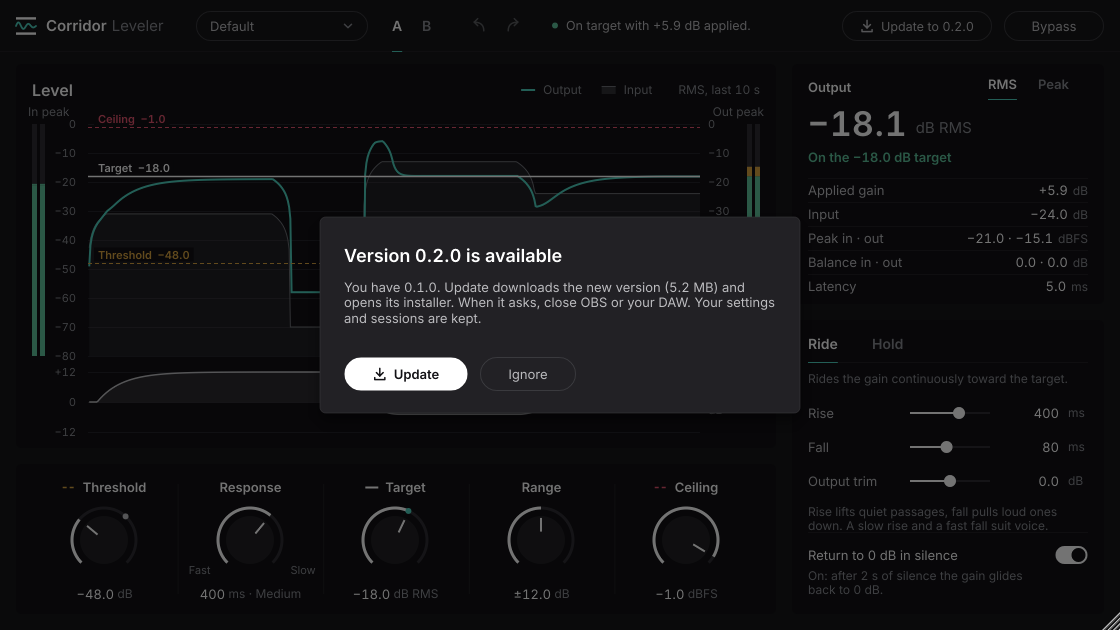
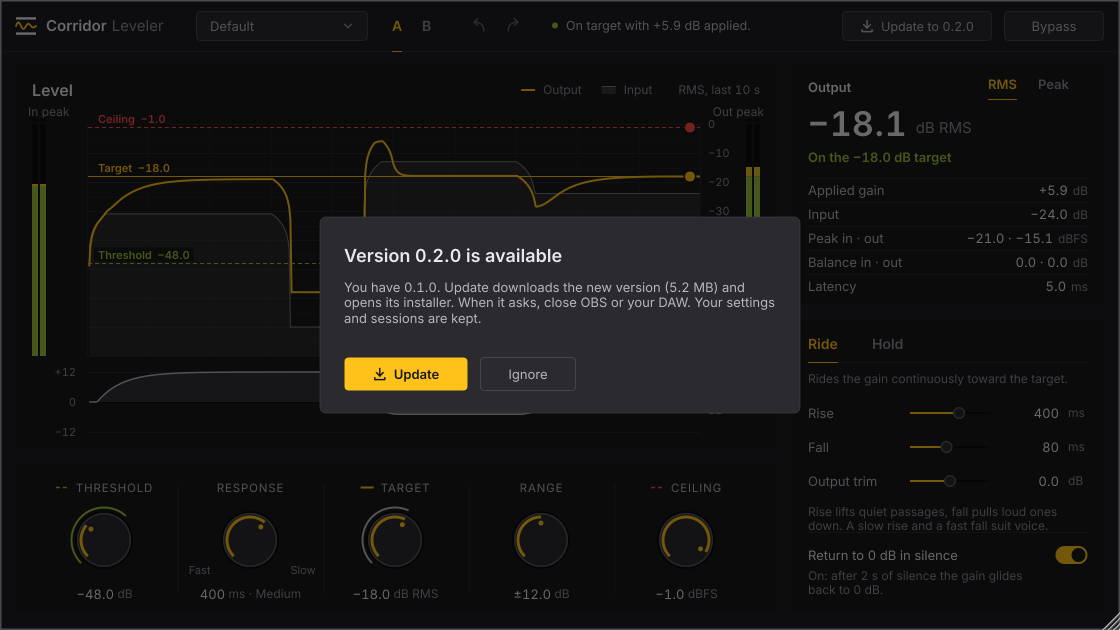
Restyle the window in an analyzer style with a gold accent (#13)
Charcoal ground, grey text, one gold accent; olive threshold, red ceiling; no gradients or shadows. Faint two-way grid, thin lines with round handles, one dB scale. Matte dials with a gold arc inside the rim and a dot pointer, slim meters with a gold peak-hold tick, flat buttons, and a plain window edge.

diff --git a/plugin/src/PluginEditor.cpp b/plugin/src/PluginEditor.cpp
@@ -44,7 +44,7 @@ constexpr float kTopBar = 52.f;
 constexpr float kRailW = 312.f, kDialH = 150.f, kReadH = 240.f;
 constexpr int kFullW = 1000, kFullH = 630;  // the full layout from here up; compact below
 constexpr float kDbRange = 80.f;
-constexpr float kBarW = 5.f, kBarGap = 3.f;
+constexpr float kBarW = 6.f, kBarGap = 2.f;
 struct Geo {
     float w = 1120.f, h = 630.f;
     bool compact = false;
@@ -86,12 +86,15 @@ struct Pal {
     Colour accent, positive, negative, warning;
     Colour inLine, grid, track, shade;
 };
-// dark: cards are darker than the ground; text greys pass 4.5:1 on the cards
+// Analyzer style: a flat charcoal ground, cards a shade darker, grey text and one gold accent (the output,
+// the Target, every value arc and anything switched on). Olive is the threshold and the safe meter zone,
+// yellow the meter's middle zone, red the ceiling and clipping. Text greys pass 4.5:1 on the cards.
 const Pal kDark{true,
-                Colour(0xff171719), Colour(0xff121115), Colour(0xff222125), Colour(0xff2a292e), Colour(0xff222125), Colour(0xff3a3a3e),
-                Colour(0xffffffff), Colour(0xffbdbdc0), Colour(0xff8a8c92),
-                Colour(0xff4fd1bf), Colour(0xff5fc39c), Colour(0xffe5566f), Colour(0xffd9a441),
-                Colour(0xff6e7076), Colour(0xff25242a), Colour(0xff2f2e33), Colour(0x66000000)};
+                Colour(0xff1e1e22), Colour(0xff19191c), Colour(0xff2a2a2f), Colour(0xff34343a), Colour(0xff2c2c31), Colour(0xff45454c),
+                Colour(0xffe8e8ec), Colour(0xffb8b8c0), Colour(0xff8e8e98),
+                Colour(0xffffc21a), Colour(0xff9cc23a), Colour(0xffff4d4d), Colour(0xffe6c229),
+                Colour(0xff7c7c84), Colour(0xff27272c), Colour(0xff0f0f11), Colour(0x00000000)};
+const Colour kKnobRim(0xff5a5a62), kFrame(0xff4a4a52);
 
 // ---------------------------------------------------------------- type: Inter Tabular, Regular and SemiBold
 // Mostly regular weight; SemiBold for names, titles, the chosen option and the answer figure.
@@ -151,10 +154,9 @@ void card(Graphics& g, const Pal& c, Rectangle<float> r) {
     g.setColour(c.surface); g.fillRoundedRectangle(r, 6.f);
     if (!c.dark) { g.setColour(c.rule); g.drawRoundedRectangle(r.reduced(0.5f), 6.f, 1.f); }
 }
-// a floating panel (menu, popover, dialog): the one place a shadow is drawn
+// a floating panel (menu, popover, dialog): flat, with a 1 px edge
 void floating(Graphics& g, const Pal& c, Rectangle<float> r) {
     Path p; p.addRoundedRectangle(r, 6.f);
-    DropShadow(c.shade, 24, {0, 8}).drawForPath(g, p);
     g.setColour(c.dark ? c.raised : c.surface); g.fillPath(p);
     g.setColour(c.dark ? c.control.withAlpha(0.6f) : c.rule); g.strokePath(p, PathStrokeType(1.f));
 }
@@ -271,40 +273,43 @@ public:
     // the colour and the dash of the line a dial moves
     Colour roleColour(const String& role) const {
         const Pal& c = p();
-        return role == "data" ? c.text : role == "thr" ? c.warning : role == "ceil" ? c.negative : c.muted;
+        return role == "data" ? c.accent : role == "thr" ? c.positive : role == "ceil" ? c.negative : c.muted;
     }
 
-    // A flat dial: a thin track, the value arc in ink, a raised disc with a pointer. The live level
-    // (Target: the output, Threshold: the input) is a dot on the track.
+    // A dial in the analyzer style: a dark matte disc edged by a thin light ring and a dark outline. The
+    // value is a gold arc just inside the rim (no track behind it) and a gold dot near the edge is the
+    // pointer. Threshold and Target add a thin outer arc for the live level: olive for the input on
+    // Threshold, grey for the output on Target.
     void drawRotarySlider(Graphics& g, int x, int y, int w, int h, float pos, float a0, float a1, Slider& s) override {
         const Pal& c = p();
         const float cx = float(x) + float(w) * 0.5f, cy = float(y) + float(h) * 0.5f;
-        const float ringR = float(jmin(w, h)) * 0.5f - 4.f, r = ringR - 8.f;
+        const float r = float(jmin(w, h)) * 0.5f - 9.f;  // the disc
         const float ang = a0 + pos * (a1 - a0);
-        const PathStrokeType ring(3.f, PathStrokeType::curved, PathStrokeType::butt);
-        Path track; track.addCentredArc(cx, cy, ringR, ringR, 0.f, a0, a1, true);
-        g.setColour(c.track); g.strokePath(track, ring);
-        if (pos > 0.003f) {
-            Path val; val.addCentredArc(cx, cy, ringR, ringR, 0.f, a0, ang, true);
-            g.setColour(c.text); g.strokePath(val, ring);
-        }
+        const String role = s.getProperties().getWithDefault("role", "");
         const bool hot = s.isMouseOverOrDragging();
-        g.setColour(hot ? c.hover : c.raised);
-        g.fillEllipse(cx - r, cy - r, r * 2.f, r * 2.f);
-        const float p0 = r * 0.35f, p1 = r * 0.92f;
-        g.setColour(c.text);
-        g.drawLine(cx + std::sin(ang) * p0, cy - std::cos(ang) * p0, cx + std::sin(ang) * p1, cy - std::cos(ang) * p1, 2.f);
+        auto arc = [&](float rad, float from, float to, float thick, Colour col) {
+            Path a; a.addCentredArc(cx, cy, rad, rad, 0.f, from, to, true);
+            g.setColour(col); g.strokePath(a, PathStrokeType(thick, PathStrokeType::curved, PathStrokeType::butt));
+        };
         const var live = s.getProperties()["live"];
         if (!live.isVoid()) {
             const double lv = double(live);
-            if (lv >= s.getMinimum() && lv <= s.getMaximum()) {
-                const float la = a0 + float(s.valueToProportionOfLength(lv)) * (a1 - a0);
-                const bool isOut = s.getProperties()["role"].toString() == "data";
-                g.setColour(isOut ? c.accent : c.secondary);
-                g.fillEllipse(cx + ringR * std::sin(la) - 3.f, cy - ringR * std::cos(la) - 3.f, 6.f, 6.f);
+            if (lv > s.getMinimum()) {
+                const float la = a0 + float(s.valueToProportionOfLength(jmin(lv, s.getMaximum()))) * (a1 - a0);
+                arc(r + 5.5f, a0, la, 2.f, role == "thr" ? c.positive : c.secondary);
             }
         }
-        if (s.hasKeyboardFocus(false)) { g.setColour(c.accent); g.drawEllipse(cx - ringR - 5.f, cy - ringR - 5.f, (ringR + 5.f) * 2.f, (ringR + 5.f) * 2.f, 1.5f); }
+        g.setColour(Colours::black.withAlpha(0.45f));
+        g.fillEllipse(cx - r - 2.f, cy - r - 2.f, (r + 2.f) * 2.f, (r + 2.f) * 2.f);
+        g.setColour(hot ? c.hover : c.raised);
+        g.fillEllipse(cx - r, cy - r, r * 2.f, r * 2.f);
+        g.setColour(hot ? c.secondary : kKnobRim);
+        g.drawEllipse(cx - r + 0.75f, cy - r + 0.75f, (r - 0.75f) * 2.f, (r - 0.75f) * 2.f, 1.5f);
+        if (pos > 0.003f) arc(r - 4.f, a0, ang, 3.f, c.accent);
+        const float pr = r - 10.f, d = jmax(5.f, r * 0.15f);
+        g.setColour(c.accent);
+        g.fillEllipse(cx + std::sin(ang) * pr - d * 0.5f, cy - std::cos(ang) * pr - d * 0.5f, d, d);
+        if (s.hasKeyboardFocus(false)) { g.setColour(c.accent); g.drawEllipse(cx - r - 8.f, cy - r - 8.f, (r + 8.f) * 2.f, (r + 8.f) * 2.f, 1.5f); }
     }
 
     // the thin sliders for rise, fall and trim
@@ -313,9 +318,10 @@ public:
         const float cy = std::round(float(y) + float(h) * 0.5f), x0 = float(x) + 6.f, x1 = float(x + w) - 6.f;
         const float px = jlimit(x0, x1, pos);
         g.setColour(c.track); g.fillRect(x0, cy - 1.f, x1 - x0, 2.f);
-        g.setColour(c.text); g.fillRect(x0, cy - 1.f, px - x0, 2.f);
+        g.setColour(c.accent); g.fillRect(x0, cy - 1.f, px - x0, 2.f);
         const float tr = s.isMouseOverOrDragging() ? 7.f : 6.f;
-        g.setColour(c.text); g.fillEllipse(px - tr, cy - tr, tr * 2.f, tr * 2.f);
+        g.setColour(c.raised); g.fillEllipse(px - tr, cy - tr, tr * 2.f, tr * 2.f);
+        g.setColour(s.isMouseOverOrDragging() ? c.secondary : kKnobRim); g.drawEllipse(px - tr + 0.75f, cy - tr + 0.75f, (tr - 0.75f) * 2.f, (tr - 0.75f) * 2.f, 1.5f);
         if (s.hasKeyboardFocus(false)) { g.setColour(c.accent); g.drawEllipse(px - 10.f, cy - 10.f, 20.f, 20.f, 1.5f); }
     }
 
@@ -332,7 +338,7 @@ public:
         const bool on = b.getToggleState();
         if (kind == "switch") {
             const auto t = Rectangle<float>(r.getRight() - 32.f, r.getCentreY() - 9.f, 32.f, 18.f);
-            g.setColour(on ? c.text : c.track); g.fillRoundedRectangle(t, 9.f);
+            g.setColour(on ? c.accent : c.track); g.fillRoundedRectangle(t, 9.f);
             const float kx = on ? t.getRight() - 16.f : t.getX() + 2.f;
             g.setColour(on ? c.surface : c.secondary);
             g.fillEllipse(kx, t.getY() + 2.f, 14.f, 14.f);
@@ -348,15 +354,15 @@ public:
             if (b.hasKeyboardFocus(false)) { g.setColour(c.accent); g.drawEllipse(disc.expanded(1.f), 1.5f); }
             return;
         }
-        const float rad = r.getHeight() * 0.5f;
+        const float rad = 4.f;
         if (kind == "primary") {
-            g.setColour(!b.isEnabled() ? c.track : over || down ? c.text.withAlpha(0.86f) : c.text);
+            g.setColour(!b.isEnabled() ? c.track : over || down ? c.accent.brighter(0.15f) : c.accent);
             g.fillRoundedRectangle(r, rad);
         } else if (kind == "control") {
             const bool danger = b.getProperties().getWithDefault("danger", false);
-            if (on && b.getClickingTogglesState()) { g.setColour(danger ? c.negative : c.text); g.fillRoundedRectangle(r, rad); }
+            if (on && b.getClickingTogglesState() && danger) { g.setColour(c.negative); g.fillRoundedRectangle(r, rad); }
             else {
-                if (over || down) { g.setColour(c.hover); g.fillRoundedRectangle(r, rad); }
+                g.setColour(over || down ? c.hover : c.raised); g.fillRoundedRectangle(r, rad);
                 g.setColour(c.control); g.drawRoundedRectangle(r, rad, 1.f);
             }
         } else if (over) {
@@ -374,7 +380,7 @@ public:
         const bool filledToggle = kind == "control" && on && b.getClickingTogglesState();
         const Colour col = !b.isEnabled() ? c.muted.withAlpha(0.6f)
                          : kind == "primary" ? c.surface
-                         : filledToggle ? (alarm ? Colours::white : c.surface)
+                         : filledToggle ? (alarm ? Colours::white : c.accent)
                          : alarm ? c.negative
                          : kind == "icon" ? (over ? c.text : c.secondary)
                          : on || over ? c.text : c.secondary;
@@ -540,13 +546,14 @@ public:
         const float w = float(getWidth()), cx = w * 0.5f;
         const String role = slider.getProperties()["role"].toString();
         // name, led by the mark of the line it moves
-        const Font tf = text(13.f, true);
+        const Font tf = text(11.5f).withExtraKerningFactor(0.06f);
+        const String name = title.toUpperCase();
         const bool hasMark = role.isNotEmpty();
-        const float tw = widthOf(tf, title) + (hasMark ? 20.f : 0.f);
+        const float tw = widthOf(tf, name) + (hasMark ? 20.f : 0.f);
         float tx = cx - tw * 0.5f;
         if (hasMark) { lineMark(g, Line<float>(tx, 9.5f, tx + 13.f, 9.5f), look->roleColour(role), role != "data", role == "data" ? 2.f : 1.5f); tx += 20.f; }
-        g.setFont(tf); g.setColour(c.text);
-        g.drawText(title, Rectangle<float>(tx, 0.f, tw, 19.f), Justification::centredLeft);
+        g.setFont(tf); g.setColour(slider.isMouseOverOrDragging() ? c.text : c.secondary);
+        g.drawText(name, Rectangle<float>(tx, 0.f, tw, 19.f), Justification::centredLeft);
         if (endLabels.first.isNotEmpty()) {  // which way is which: the start of the sweep is fast, the end slow
             const float dy = float(kDialTop) + float(kDial) - 6.f, half = float(kDial) * 0.5f;
             g.setFont(text(11.f)); g.setColour(c.muted);
@@ -613,7 +620,7 @@ public:
         for (int i = 0; i < labels.size(); ++i) {
             const auto r = slot(i);
             const bool sel = i == selected;
-            g.setColour(sel ? c.text : hoverIndex == i ? c.secondary : c.muted);
+            g.setColour(sel ? c.accent : hoverIndex == i ? c.text : c.muted);
             const float tw = widthOf(f, labels[i]);
             const float tx = r.getX();
             g.drawText(labels[i], Rectangle<float>(tx, 0.f, tw + 2.f, float(getHeight()) - 1.f), Justification::centredLeft);
@@ -692,14 +699,22 @@ public:
             item("Output", [&](float mx) { g.setColour(c.accent); g.fillRect(mx, G.level.getY() + 25.f, 14.f, 2.f); });
         }
         }
-        // grid: a line and a figure every 10 dB, read by the plot and both meters alike
+        // grid: a line every 10 dB (fainter every 5) and every second; one dB scale, beside the output meter,
+        // read by the plot and both meters alike
         g.setFont(num(11.f));
-        for (int v = 0; v >= -80; v -= 10) {
+        for (int v = 0; v >= -80; v -= 5) {
             const float y = std::round(G.yOf(float(v)));
-            g.setColour(c.grid); g.fillRect(G.px0, y, G.px1 - G.px0, 1.f);
+            g.setColour(v % 10 == 0 ? c.grid : c.grid.interpolatedWith(c.surface, 0.5f)); g.fillRect(G.px0, y, G.px1 - G.px0, 1.f);
+            if (v % 10 != 0) continue;
             g.setColour(c.muted);
-            g.drawText(fmtDb(float(v), 0), Rectangle<float>(G.inBarX + 13.f, y - 7.f, G.px0 - 8.f - (G.inBarX + 13.f) - 4.f, 14.f), Justification::centredRight);
             g.drawText(fmtDb(float(v), 0), Rectangle<float>(G.px1 + 8.f, y - 7.f, G.outBarX - G.px1 - 12.f, 14.f), Justification::centredLeft);
+        }
+        {
+            const float sxg = (G.px1 - G.px0) / float(kHist - 1);
+            for (int sec = 0; sec <= 10; ++sec) {
+                g.setColour(sec % 5 == 0 ? c.grid : c.grid.interpolatedWith(c.surface, 0.5f));
+                g.fillRect(std::round(G.px1 - float(sec * 50) * sxg), G.gt, 1.f, G.gb - G.gt);
+            }
         }
         paintMeter(g, c, G.inBarX, in, "In peak");
         paintMeter(g, c, G.outBarX, out, "Out peak");
@@ -732,12 +747,16 @@ public:
         // the three reference lines, labelled at their left end
         auto& st = proc.state();
         struct Ref { const char* id; const char* name; Colour col; bool dashed; };
-        const Ref refs[3] = {{ids::ceiling, "Ceiling", c.negative, true}, {ids::target, "Target", c.text, false}, {ids::threshold, "Threshold", c.warning, true}};
+        const Ref refs[3] = {{ids::ceiling, "Ceiling", c.negative, true}, {ids::target, "Target", c.accent, false}, {ids::threshold, "Threshold", c.positive, true}};
         float labelY[3];
         for (int i = 0; i < 3; ++i) {
             const float y = std::round(G.yOf(st.getRawParameterValue(refs[i].id)->load())) + 0.5f;
             const bool hot = hover == refs[i].id || dragId == refs[i].id || emphasis == refs[i].id;
-            lineMark(g, Line<float>(x0, y, x1, y), refs[i].col, refs[i].dashed, hot ? 2.5f : refs[i].dashed ? 1.f : 1.5f);
+            lineMark(g, Line<float>(x0, y, x1, y), refs[i].col, refs[i].dashed, hot ? 2.f : 1.f);
+            // the handle: a round node at the right end, edged in the card colour so it sits on top
+            const float hr = hot ? 6.f : 5.f;
+            g.setColour(c.surface); g.fillEllipse(x1 - 10.f - hr - 1.5f, y - hr - 1.5f, (hr + 1.5f) * 2.f, (hr + 1.5f) * 2.f);
+            g.setColour(refs[i].col); g.fillEllipse(x1 - 10.f - hr, y - hr, hr * 2.f, hr * 2.f);
             labelY[i] = y - 16.f;
         }
         for (int i = 1; i < 3; ++i) labelY[i] = jmax(labelY[i], labelY[i - 1] + 15.f);  // never on top of each other
@@ -748,7 +767,7 @@ public:
             const String s = String(refs[i].name) + "  " + fmtDb(v);
             const auto r = Rectangle<float>(x0 + 6.f, labelY[i], widthOf(lf, s) + 8.f, 14.f);
             g.setColour(c.surface); g.fillRect(r);
-            g.setColour(refs[i].col == c.text ? c.text : refs[i].col);
+            g.setColour(refs[i].col);
             g.drawText(s, r.withTrimmedLeft(4.f), Justification::centredLeft);
         }
         paintGainLane(g, c, X, n);
@@ -796,7 +815,6 @@ public:
         const float lw = 64.f, lx = bx < G.level.getCentreX() ? G.level.getX() + 12.f : G.level.getRight() - 12.f - lw;
         g.drawText(clip ? "Clip" : name, Rectangle<float>(lx, G.gt - 20.f, lw, 16.f), bx < G.level.getCentreX() ? Justification::centredLeft : Justification::centredRight);
         const float pk[2] = {m.peakL, m.peakR};
-        auto zone = [&](float v) { return v > -6.f ? c.negative : v > -18.f ? c.warning : c.positive; };
         for (int ch = 0; ch < 2; ++ch) {
             const float x = bx + float(ch) * (kBarW + kBarGap);
             g.setColour(c.track); g.fillRect(x, top, kBarW, bot - top);
@@ -807,7 +825,8 @@ public:
                 if (v > -18.f) { g.setColour(c.warning); g.fillRect(x, jmax(t, y6), kBarW, y18 - jmax(t, y6)); }
                 if (v > -6.f) { g.setColour(c.negative); g.fillRect(x, t, kBarW, y6 - t); }
             }
-            if (m.hold > -kDbRange) { g.setColour(zone(m.hold)); g.fillRect(x, G.yOf(jmin(0.f, m.hold)) - 1.f, kBarW, 2.f); }
+            if (m.hold > -kDbRange) { g.setColour(c.accent); g.fillRect(x, std::round(G.yOf(jmin(0.f, m.hold))) - 1.f, kBarW, 2.f); }
+            g.setColour(clip ? c.negative : c.track); g.fillRect(x, top - 6.f, kBarW, 3.f);
         }
     }
 
@@ -1444,6 +1463,9 @@ public:
         if (!mods.isAnyModifierKeyDown() && (code == 'A' || code == 'a') && drawer.isVisible()) { drawer.analyze.triggerClick(); return true; }
         return false;
     }
+
+    // a plain edge round the window, lighter than the ground, so it stands apart from a black host
+    void paintOverChildren(Graphics& g) override { g.setColour(kFrame); g.drawRect(getLocalBounds().toFloat(), 1.5f); }
 
     void resized() override {
         const int W = getWidth(), H = getHeight() - drawerSpace;

diff --git a/README.md b/README.md
@@ -49,15 +49,20 @@ settings to compare; B starts as a copy of A, and both are saved with the sessio
 (Ctrl+Z, Ctrl+Shift+Z) for every change. Double-click a dial, or press Enter on it, to type a value;
 Alt-click resets it.
 
-The window is a flat, dark monitoring screen. The top bar holds presets, A / B, undo and redo, the live status
+The window is a flat, dark monitoring screen in an analyzer style: a charcoal ground, grey text and one gold
+accent, with no gradients or glow, and a plain edge so it stands out against a black host. The top bar holds presets, A / B, undo and redo, the live status
 as one plain sentence, and Bypass. The **Level** panel draws the input and output over the last 10 s (RMS or
-peak, following the target) with the Target, Threshold and Ceiling lines (drag them to set them), marked every
-10 dB on both edges. The left and right peak meters sit either side on the same scale, in green, amber and red
-zones; click one to clear its peak hold. Under the graph, the **gain lane** shows how much Corridor boosted or
+peak, following the target) over a faint grid (every 10 dB and every second), the output as a gold
+curve and the input as a thin grey line, with the Target, Threshold and Ceiling lines (gold, olive and red) and a
+round handle on each (drag them to set them). One dB scale, beside the output meter, serves the plot and both
+meters. The slim left and right peak meters sit either side, in olive, yellow and red zones with a gold
+peak-hold tick and a red cap when they clip; click one to clear its peak hold. Under the graph, the **gain lane** shows how much Corridor boosted or
 cut, moment by moment, with the limiter's catches marked in red. The **Output** panel leads with the output
 level the engine steers and how far it is from the target, then the applied gain, input, peaks, stereo balance
-and latency (5 ms at every sample rate). Each dial is marked with the line it moves. Every on/off control fills
-with ink when on (red for Bypass), and every selection (A / B, Ride / Hold, RMS / Peak) is underlined in teal.
+and latency (5 ms at every sample rate). Each dial is a matte disc with its value as a gold arc just inside the rim
+and a gold dot for a pointer; Threshold and Target add a thin outer arc for the live input and output level, and
+each dial's name is marked with the line it moves. Switches turn gold when on (Bypass red), and every selection
+(A / B, Ride / Hold, RMS / Peak) is gold and underlined in gold.
 The text is set in Inter with tabular figures, so live numbers don't shift. The window can be resized freely
 from 720 x 540 up, and the text and controls always keep one size: the graph and dials take the extra
 room. Below 1000 x 630 it switches to a compact layout: the graph and dials run the full width, the output
